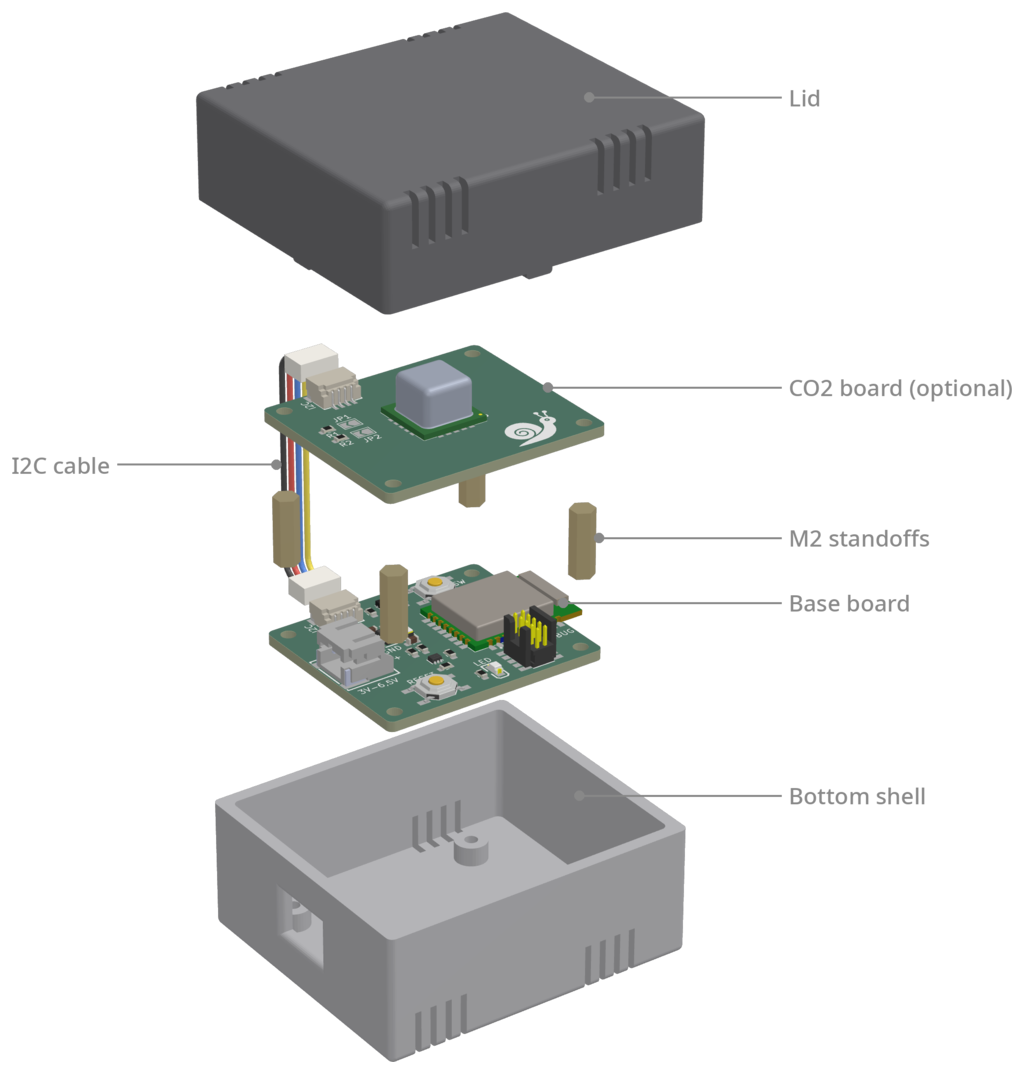
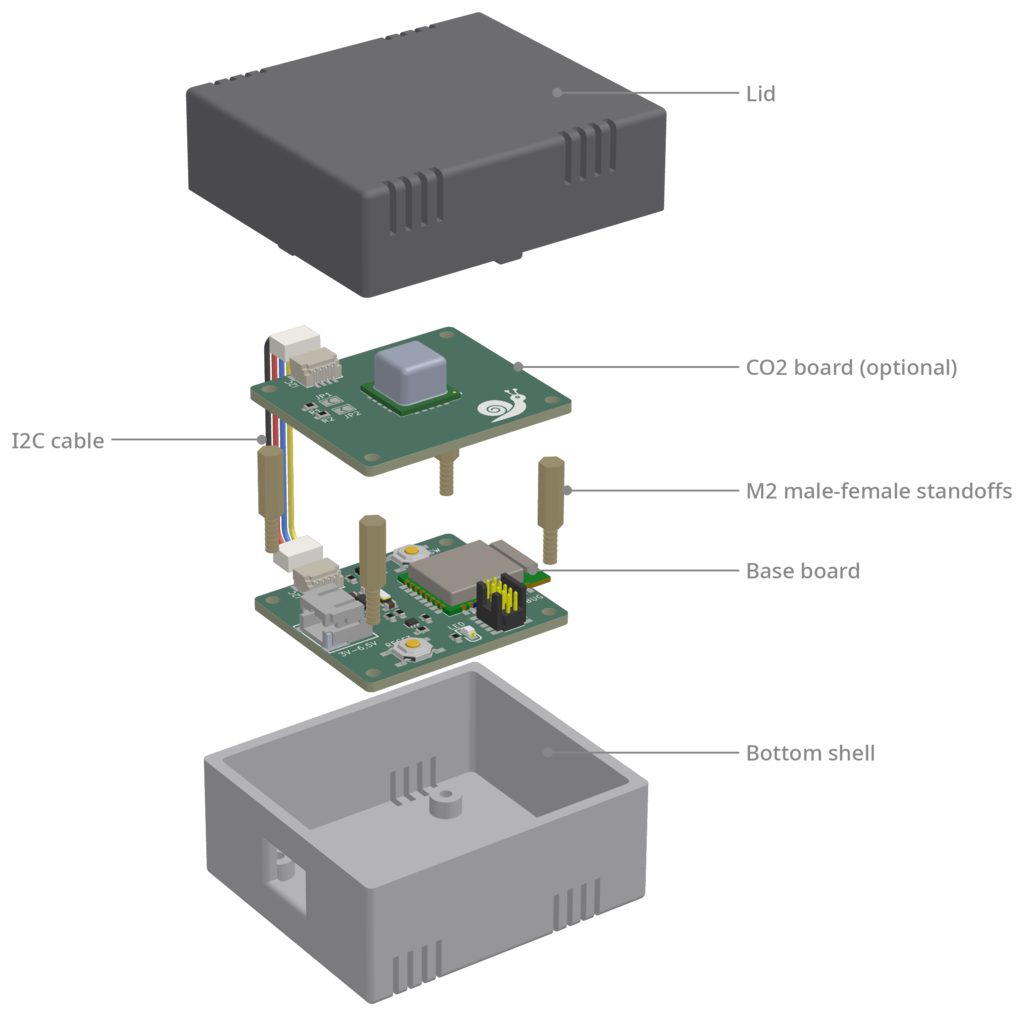
Draw male-female M2 standoffs and fit labels to their text
The standoffs now carry a threaded M2 stud pointing down into the base
board, and the label margins grow with the longest label.

diff --git a/scripts/render_images.py b/scripts/render_images.py
@@ -46,7 +46,8 @@ BOARD_THICKNESS = 1.6
 # Shared board layout (board-local mm, origin at the KiCad grid origin).
 MOUNTING_HOLES = [(2.2, 2.2), (32.8, 2.2), (2.2, 27.8), (32.8, 27.8)]
 STANDOFF_LENGTH = 10.0
-STANDOFF_ACROSS_FLATS = 3.2  # M2 hex standoff
+STANDOFF_ACROSS_FLATS = 3.2  # M2 male-female hex standoff
+STANDOFF_STUD_LENGTH = 6.0  # threaded M2 stud, pointing down into the base board
 STANDOFF_COLOR = [0.80, 0.64, 0.32]  # brass
 # CN2: JST SH SM04B-SRSS-TB, side entry, socket facing the board edge (y = 0).
 I2C_X = 9.8
@@ -200,12 +201,20 @@ def tube(points, radius, sections=12):
 
 
 def standoffs(bottom_y):
+    """Male-female M2 hex standoffs: hex body from bottom_y up, threaded stud below."""
     radius = STANDOFF_ACROSS_FLATS / np.sqrt(3)
+    pitch = 0.4  # M2 coarse thread
     meshes = []
     for x, y in MOUNTING_HOLES:
         a = board_point(x, y, bottom_y)
         meshes.append(trimesh.creation.cylinder(
             radius=radius, segment=[a, a + [0, STANDOFF_LENGTH, 0]], sections=6))
+        # Thread suggested by alternating crest/root rings.
+        for i in range(int(STANDOFF_STUD_LENGTH / pitch)):
+            top = a - [0, i * pitch, 0]
+            r = 1.0 if i % 2 == 0 else 0.82
+            meshes.append(trimesh.creation.cylinder(
+                radius=r, segment=[top - [0, pitch, 0], top], sections=20))
     return trimesh.util.concatenate(meshes)
 
 
@@ -246,8 +255,12 @@ def label(image, project, anchors, width, left_anchors=None):
     font_path = next((f for f in FONT_CANDIDATES if Path(f).exists()), None)
     font = ImageFont.truetype(font_path, 46) if font_path else ImageFont.load_default()
     left_anchors = left_anchors or {}
-    left_pad = 420 if left_anchors else 0
-    canvas = Image.new('RGBA', (left_pad + width + 520, image.height), (0, 0, 0, 0))
+    def text_width(texts):
+        return max((font.getlength(s) for s in texts), default=0)
+
+    left_pad = int(text_width(left_anchors) + 140) if left_anchors else 0
+    right_pad = int(text_width(anchors) + 80)
+    canvas = Image.new('RGBA', (left_pad + width + right_pad, image.height), (0, 0, 0, 0))
     canvas.paste(image, (left_pad, 0))
     draw = ImageDraw.Draw(canvas)
 
@@ -287,7 +300,7 @@ def render_exploded(tmp):
     lift = {'base': 42, 'co2': 76, 'lid': 92}
     base_y = STANDOFF_Y + lift['base']
     co2_y = STANDOFF_Y + lift['co2']
-    standoff_y = (base_y + BOARD_THICKNESS + co2_y - STANDOFF_LENGTH) / 2
+    standoff_y = (base_y + BOARD_THICKNESS + co2_y - STANDOFF_LENGTH + STANDOFF_STUD_LENGTH) / 2
     stage = Stage()
     stage.add_stl(CASE_BOTTOM, 0, SHELL_COLOR)
     stage.add_board(export_glb(tmp, 'base'), base_y)
@@ -304,7 +317,7 @@ def render_exploded(tmp):
     labelled = label(image, project, {
         'Lid': (45, lift['lid'] + 28, -20),
         'CO2 board (optional)': (35, co2_y + 1, -15),
-        'M2 standoffs': right_hole + [STANDOFF_ACROSS_FLATS / 2, 0, 0],
+        'M2 male-female standoffs': right_hole + [STANDOFF_ACROSS_FLATS / 2, 0, 0],
         'Base board': (38, base_y + 1, -15),
         'Bottom shell': (45, 12, -20),
     }, size[0], left_anchors={'I2C cable': cable_anchor})
